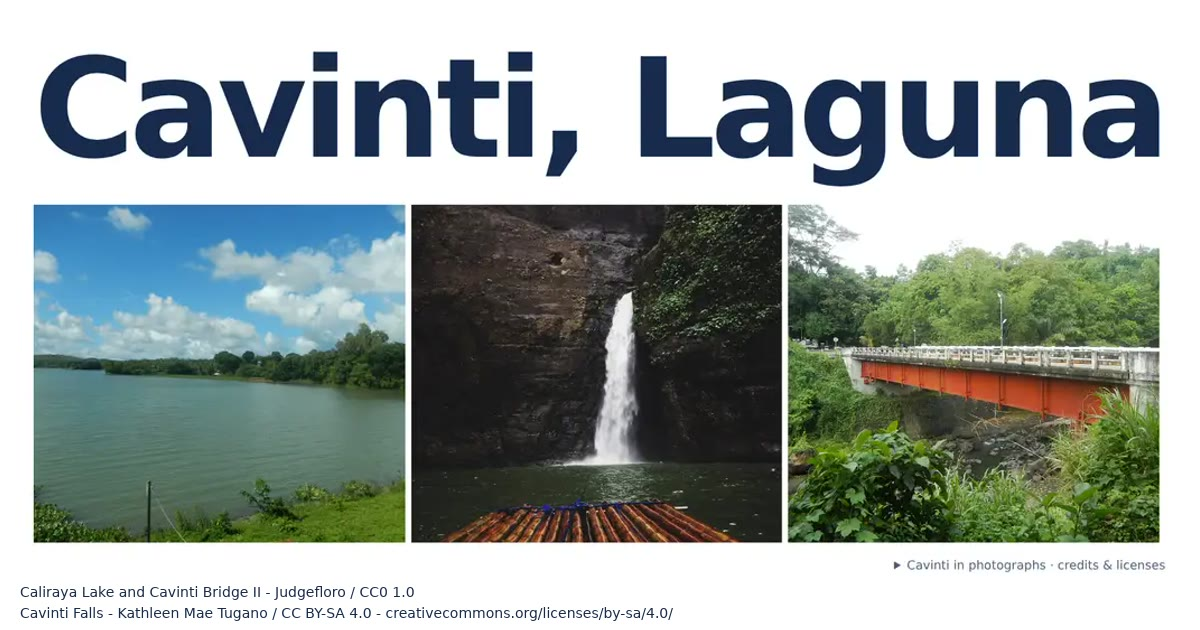
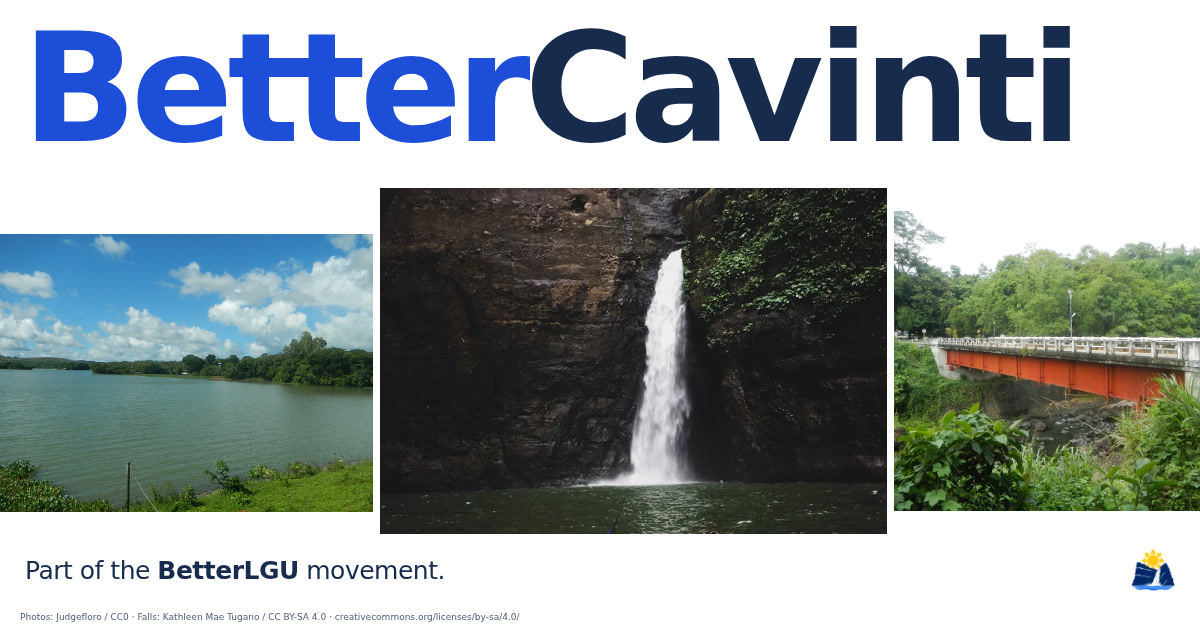
Update social preview with approved gallery poster

diff --git a/DESIGN.md b/DESIGN.md
@@ -87,3 +87,7 @@ The header uses `public/logo.webp` (192px); the browser tab uses `public/favicon
 - Homepage photo credits open in a bordered, scrollable floating panel so the attribution list does not change page layout; the native disclosure remains keyboard-operable.
 
 - Visible record, directory, and homepage list entries use subtle 500ms GSAP entrances with a capped stagger. Newly filtered entries follow the same treatment; reduced-motion preferences leave them still and content remains visible without scripts.
+
+## Social preview
+
+`public/social-hero.jpg` is a 1200 × 630 HTML-rendered gallery poster: oversized blue/navy BetterCavinti lettering, three staggered photographs (Caliraya Lake, Cavinti Falls, Cavinti Bridge II), the portal emblem, and “Part of the BetterLGU movement.” The image includes photographer and license credits. Photo sources are recorded in `src/config/lgu.ts`; the temporary sample HTML and alternate exports are not shipped.
